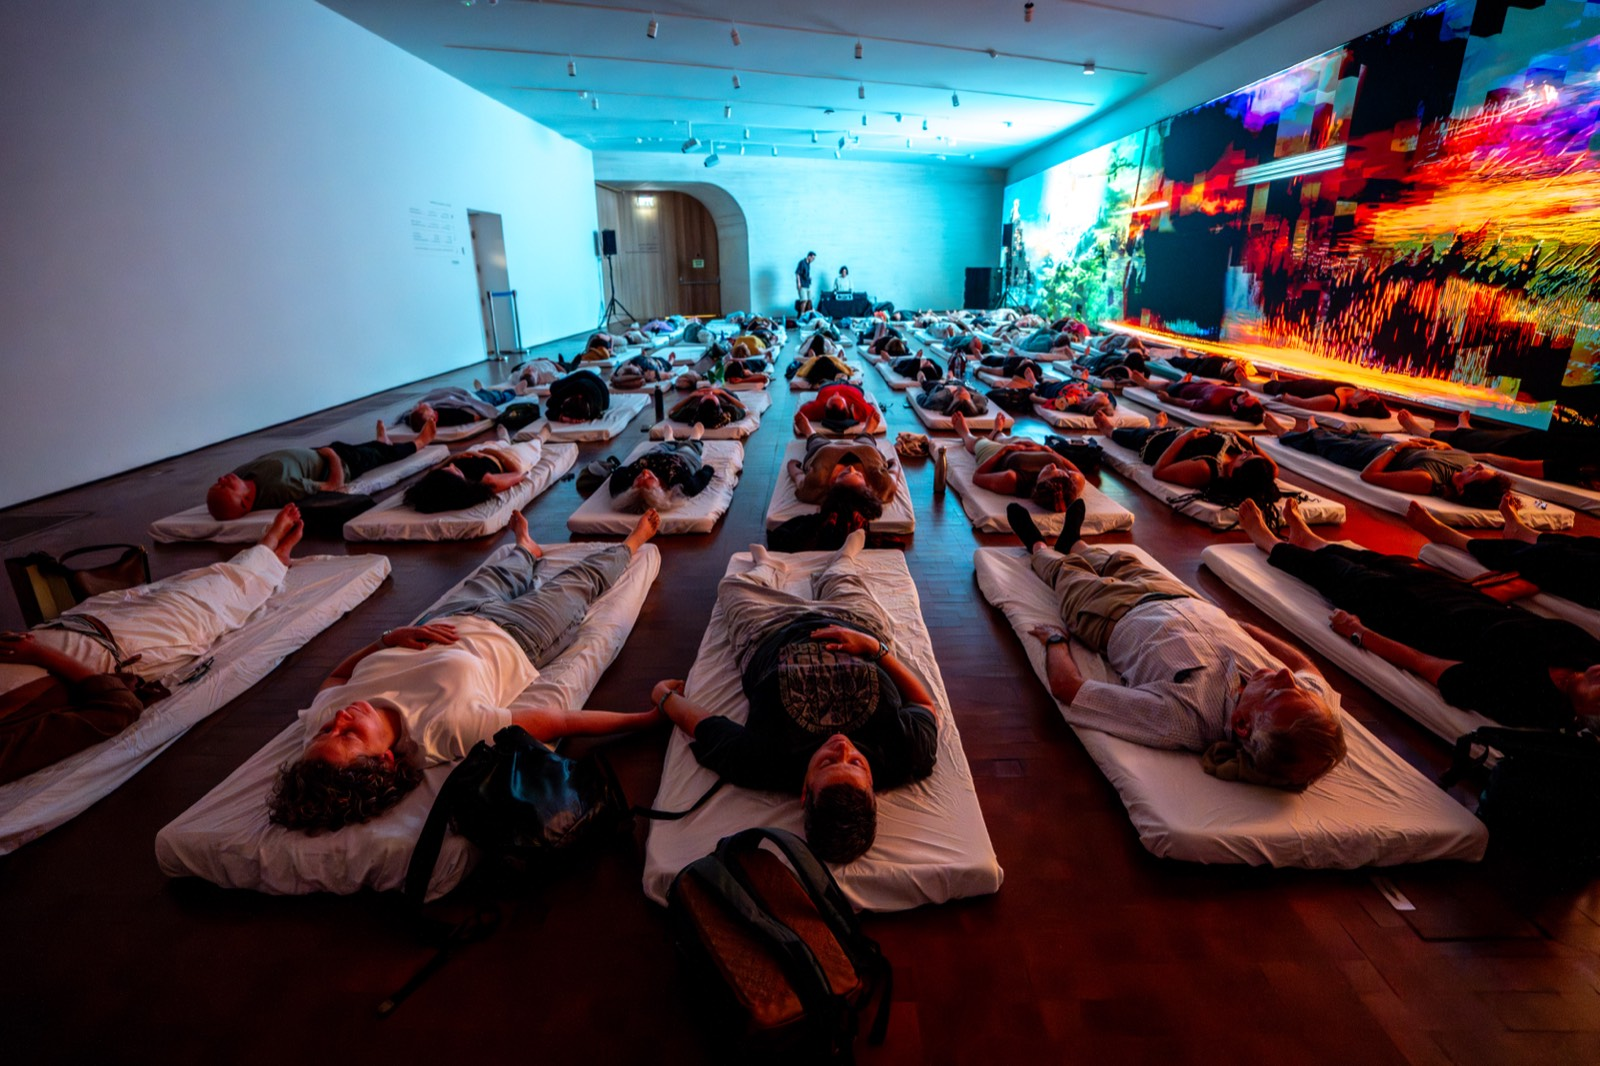
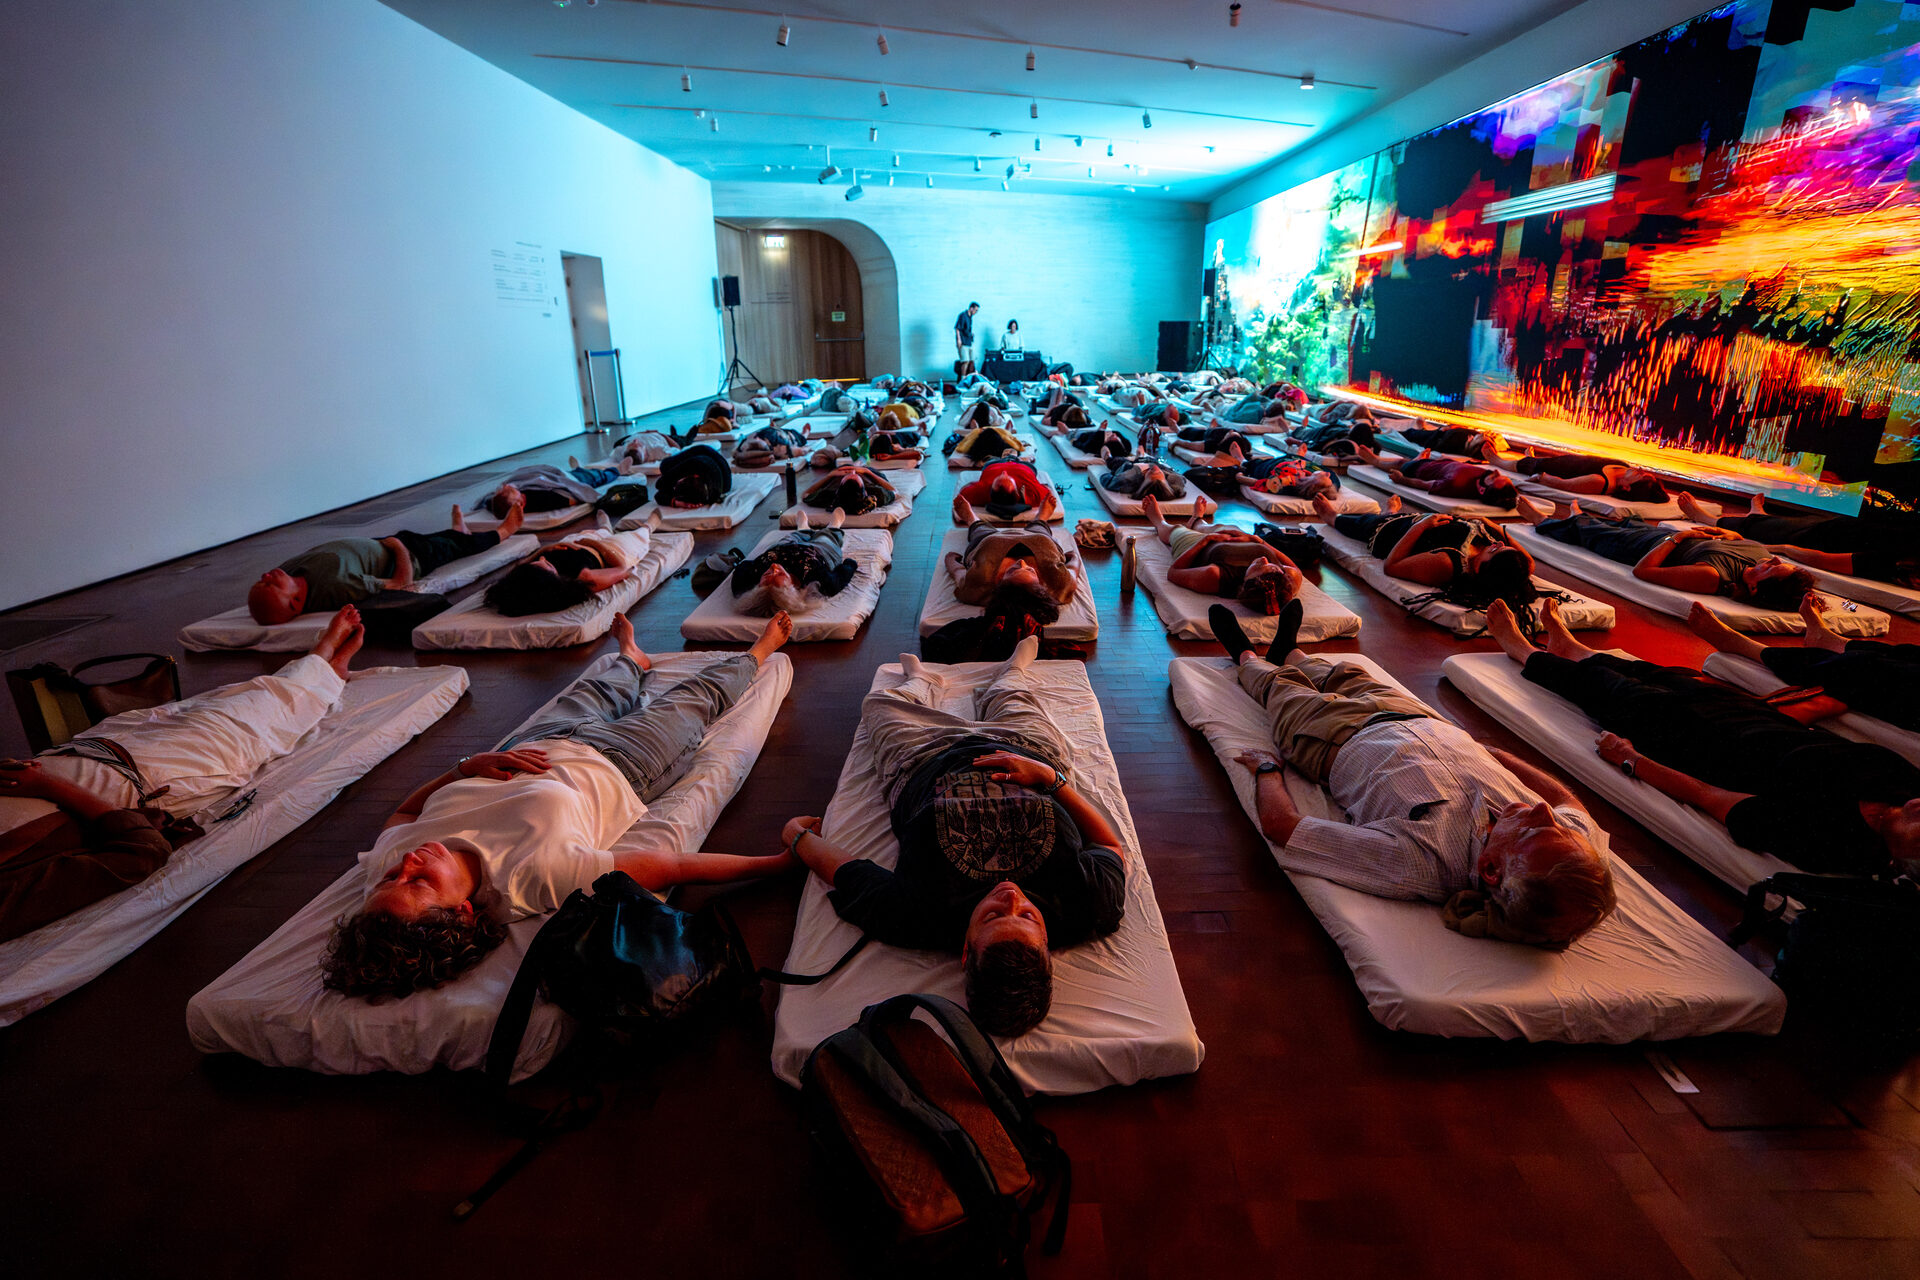
gallery: replace all images with new HR photos + floating constellation
- Replace 4 existing gallery images with updated versions
- Add 2 new images: multi-sensory experience, desert movement meditation
- Remove dark-performance, restructure to 2x3 grid + full-width video
- Captions from Hebrew filenames
- Upgrade constellation: static SVG lines -> canvas with floating names
- Names drift with dual sine waves, lines follow in real-time
- IntersectionObserver pauses animation when off-screen

diff --git a/private.html b/private.html
@@ -647,17 +647,13 @@
             min-height: 550px;
             max-height: 700px;
         }
-        .star-field svg {
+        .star-field canvas {
             position: absolute;
             top: 0; left: 0;
             width: 100%;
             height: 100%;
             pointer-events: none;
-            z-index: 0;
-        }
-        .star-field svg line {
-            stroke: rgba(88, 132, 117, 0.12);
-            stroke-width: 0.5;
+            z-index: 1;
         }
         .star {
             position: absolute;
@@ -670,7 +666,8 @@
             user-select: none;
             cursor: default;
             z-index: 2;
-            transition: text-shadow 0.5s ease, opacity 0.4s ease;
+            will-change: transform;
+            transition: text-shadow 0.5s ease;
         }
         .star:hover {
             text-shadow: 0 0 20px rgba(196, 149, 106, 0.25);
@@ -1113,7 +1110,7 @@
                 <h2 class="gallery-captioned__title">מיקומים נבחרים</h2>
             </div>
             <div class="gallery-captioned__grid">
-                <div class="gallery-captioned__item gallery-captioned__item--wide fade-in">
+                <div class="gallery-captioned__item fade-in">
                     <img src="assets/events/hr-web/sol-amazon-museum.jpg" alt="סול תרפי עבור הנהלת אמזון במוזיאון תל אביב" loading="lazy">
                     <div class="gallery-captioned__caption">סול תרפי עבור הנהלת אמזון במוזיאון תל אביב</div>
                 </div>
@@ -1122,16 +1119,20 @@
                     <div class="gallery-captioned__caption">סול תרפי במרכז סוזן דלל</div>
                 </div>
                 <div class="gallery-captioned__item fade-in">
-                    <img src="assets/events/hr-web/sol-national-library.jpg" alt="סול תרפי בספריה הלאומית ירושלים" loading="lazy">
-                    <div class="gallery-captioned__caption">סול תרפי בספריה הלאומית ירושלים</div>
+                    <img src="assets/events/hr-web/sol-national-library.jpg" alt="סול תרפי בספרייה הלאומית ירושלים" loading="lazy">
+                    <div class="gallery-captioned__caption">סול תרפי בספרייה הלאומית ירושלים</div>
                 </div>
                 <div class="gallery-captioned__item fade-in">
                     <img src="assets/events/hr-web/sol-amdursky-retreat.jpg" alt="אסף אמדורסקי במדיטציית סאונד ריטריט סול תרפי" loading="lazy">
                     <div class="gallery-captioned__caption">אסף אמדורסקי במדיטציית סאונד ריטריט סול תרפי</div>
                 </div>
                 <div class="gallery-captioned__item fade-in">
-                    <picture><source srcset="assets/events/dark-performance.webp" type="image/webp"><img src="assets/events/dark-performance.jpg" alt="מופע מדיטציית סאונד באולם חשוך" loading="lazy" width="1920" height="1080"></picture>
-                    <div class="gallery-captioned__caption">מדיטציה בלב מתחם התרבות</div>
+                    <img src="assets/events/hr-web/sol-multi-sensory.jpg" alt="חוויה רב חושית סול תרפי" loading="lazy">
+                    <div class="gallery-captioned__caption">חוויה רב חושית סול תרפי</div>
+                </div>
+                <div class="gallery-captioned__item fade-in">
+                    <img src="assets/events/hr-web/sol-desert-movement.jpg" alt="מדיטציה בתנועה יחד עם מואה במדבר" loading="lazy">
+                    <div class="gallery-captioned__caption">מדיטציה בתנועה יחד עם מואה במדבר</div>
                 </div>
                 <div class="gallery-captioned__item gallery-captioned__item--full fade-in">
                     <video autoplay muted loop playsinline preload="none" poster="assets/events/gallery-wide-bottom-poster.jpg" aria-label="וידאו פנורמי מריטריט מדיטציית סאונד">
@@ -1148,8 +1149,8 @@
             <p class="lineup__label">Artists</p>
 
             <div class="star-field" id="constellation-field">
-                <!-- SVG constellation lines -->
-                <svg id="constellation-lines"></svg>
+                <!-- Canvas constellation lines -->
+                <canvas id="constellation-canvas"></canvas>
 
                 <!-- All 16 artists - equal size, Hebrew only -->
                 <div class="star" style="right: 5%; top: 5%;">אסף אמדורסקי</div>
@@ -1270,12 +1271,13 @@
 
         document.querySelectorAll('.fade-in').forEach(el => observer.observe(el));
 
-        // Artist constellation - draw lines and breathing animation
+        // Artist constellation - floating names with dynamic connection lines
         (function() {
-            var stars = document.querySelectorAll('.star');
-            var svg = document.getElementById('constellation-lines');
+            var canvas = document.getElementById('constellation-canvas');
+            var ctx = canvas.getContext('2d');
             var field = document.getElementById('constellation-field');
-            if (!stars.length || !svg || !field) return;
+            var starEls = field.querySelectorAll('.star');
+            if (!starEls.length || !canvas || !field) return;
 
             var connections = [
                 [0, 2], [1, 2], [2, 6], [3, 7], [0, 4],
@@ -1283,41 +1285,114 @@
                 [9, 13], [10, 14], [12, 15], [6, 9], [11, 13]
             ];
 
-            function drawLines() {
-                svg.innerHTML = '';
-                var fieldRect = field.getBoundingClientRect();
-                connections.forEach(function(pair) {
-                    var a = stars[pair[0]];
-                    var b = stars[pair[1]];
-                    if (!a || !b) return;
-                    var ar = a.getBoundingClientRect();
-                    var br = b.getBoundingClientRect();
-                    var ax = ar.left + ar.width / 2 - fieldRect.left;
-                    var ay = ar.top + ar.height / 2 - fieldRect.top;
-                    var bx = br.left + br.width / 2 - fieldRect.left;
-                    var by = br.top + br.height / 2 - fieldRect.top;
-                    var line = document.createElementNS('http://www.w3.org/2000/svg', 'line');
-                    line.setAttribute('x1', ax);
-                    line.setAttribute('y1', ay);
-                    line.setAttribute('x2', bx);
-                    line.setAttribute('y2', by);
-                    svg.appendChild(line);
+            var lineColor = { r: 88, g: 132, b: 117 };
+
+            // Each star gets a drift profile - two sine waves per axis for organic motion
+            var drifts = [];
+            for (var i = 0; i < starEls.length; i++) {
+                drifts.push({
+                    ax: 8 + Math.random() * 12,
+                    ay: 6 + Math.random() * 10,
+                    fx: 0.15 + Math.random() * 0.2,
+                    fy: 0.12 + Math.random() * 0.18,
+                    px: Math.random() * Math.PI * 2,
+                    py: Math.random() * Math.PI * 2,
+                    ax2: 3 + Math.random() * 5,
+                    ay2: 2 + Math.random() * 4,
+                    fx2: 0.08 + Math.random() * 0.12,
+                    fy2: 0.06 + Math.random() * 0.1,
+                    px2: Math.random() * Math.PI * 2,
+                    py2: Math.random() * Math.PI * 2
                 });
             }
 
-            drawLines();
-            window.addEventListener('resize', drawLines);
+            function resize() {
+                var rect = field.getBoundingClientRect();
+                var dpr = window.devicePixelRatio || 1;
+                canvas.width = rect.width * dpr;
+                canvas.height = rect.height * dpr;
+                canvas.style.width = rect.width + 'px';
+                canvas.style.height = rect.height + 'px';
+                ctx.setTransform(dpr, 0, 0, dpr, 0, 0);
+            }
+
+            function getStarCenter(el) {
+                var fieldRect = field.getBoundingClientRect();
+                var sr = el.getBoundingClientRect();
+                return {
+                    x: sr.left + sr.width / 2 - fieldRect.left,
+                    y: sr.top + sr.height / 2 - fieldRect.top
+                };
+            }
 
             var time = 0;
+            var running = false;
+
             function animate() {
-                time += 0.003;
-                stars.forEach(function(star, i) {
-                    var breath = 0.82 + Math.sin(time * 0.3 + i * 0.5) * 0.08;
-                    star.style.opacity = breath.toFixed(3);
+                if (!running) return;
+                time += 0.008;
+
+                var w = canvas.width / (window.devicePixelRatio || 1);
+                var h = canvas.height / (window.devicePixelRatio || 1);
+                ctx.clearRect(0, 0, w, h);
+
+                // Move each star name
+                for (var i = 0; i < starEls.length; i++) {
+                    var d = drifts[i];
+                    var dx = Math.sin(time * d.fx + d.px) * d.ax
+                           + Math.sin(time * d.fx2 + d.px2) * d.ax2;
+                    var dy = Math.cos(time * d.fy + d.py) * d.ay
+                           + Math.cos(time * d.fy2 + d.py2) * d.ay2;
+
+                    starEls[i].style.transform = 'translate(' + dx.toFixed(1) + 'px, ' + dy.toFixed(1) + 'px)';
+
+                    // Breathing opacity
+                    var breath = 0.78 + Math.sin(time * 0.4 + i * 0.6) * 0.12;
+                    starEls[i].style.opacity = breath.toFixed(3);
+                }
+
+                // Draw connection lines
+                connections.forEach(function(pair) {
+                    var a = getStarCenter(starEls[pair[0]]);
+                    var b = getStarCenter(starEls[pair[1]]);
+
+                    var lineBreath = 0.08 + Math.sin(time * 0.5 + pair[0] * 0.3) * 0.03;
+
+                    ctx.beginPath();
+                    ctx.moveTo(a.x, a.y);
+                    ctx.lineTo(b.x, b.y);
+                    ctx.strokeStyle = 'rgba(' + lineColor.r + ',' + lineColor.g + ',' + lineColor.b + ',' + lineBreath.toFixed(3) + ')';
+                    ctx.lineWidth = 0.6;
+                    ctx.stroke();
+
+                    // Small dot at each endpoint
+                    [a, b].forEach(function(pt) {
+                        ctx.beginPath();
+                        ctx.arc(pt.x, pt.y, 1.5, 0, Math.PI * 2);
+                        ctx.fillStyle = 'rgba(' + lineColor.r + ',' + lineColor.g + ',' + lineColor.b + ',' + (lineBreath * 2.5).toFixed(3) + ')';
+                        ctx.fill();
+                    });
                 });
+
                 requestAnimationFrame(animate);
             }
-            animate();
+
+            // Only animate when section is visible (performance)
+            var constellationObserver = new IntersectionObserver(function(entries) {
+                entries.forEach(function(entry) {
+                    if (entry.isIntersecting && !running) {
+                        running = true;
+                        resize();
+                        animate();
+                    } else if (!entry.isIntersecting) {
+                        running = false;
+                    }
+                });
+            }, { threshold: 0.05 });
+            constellationObserver.observe(field);
+
+            resize();
+            window.addEventListener('resize', resize);
         })();
 
         // Smooth scroll for anchor links
